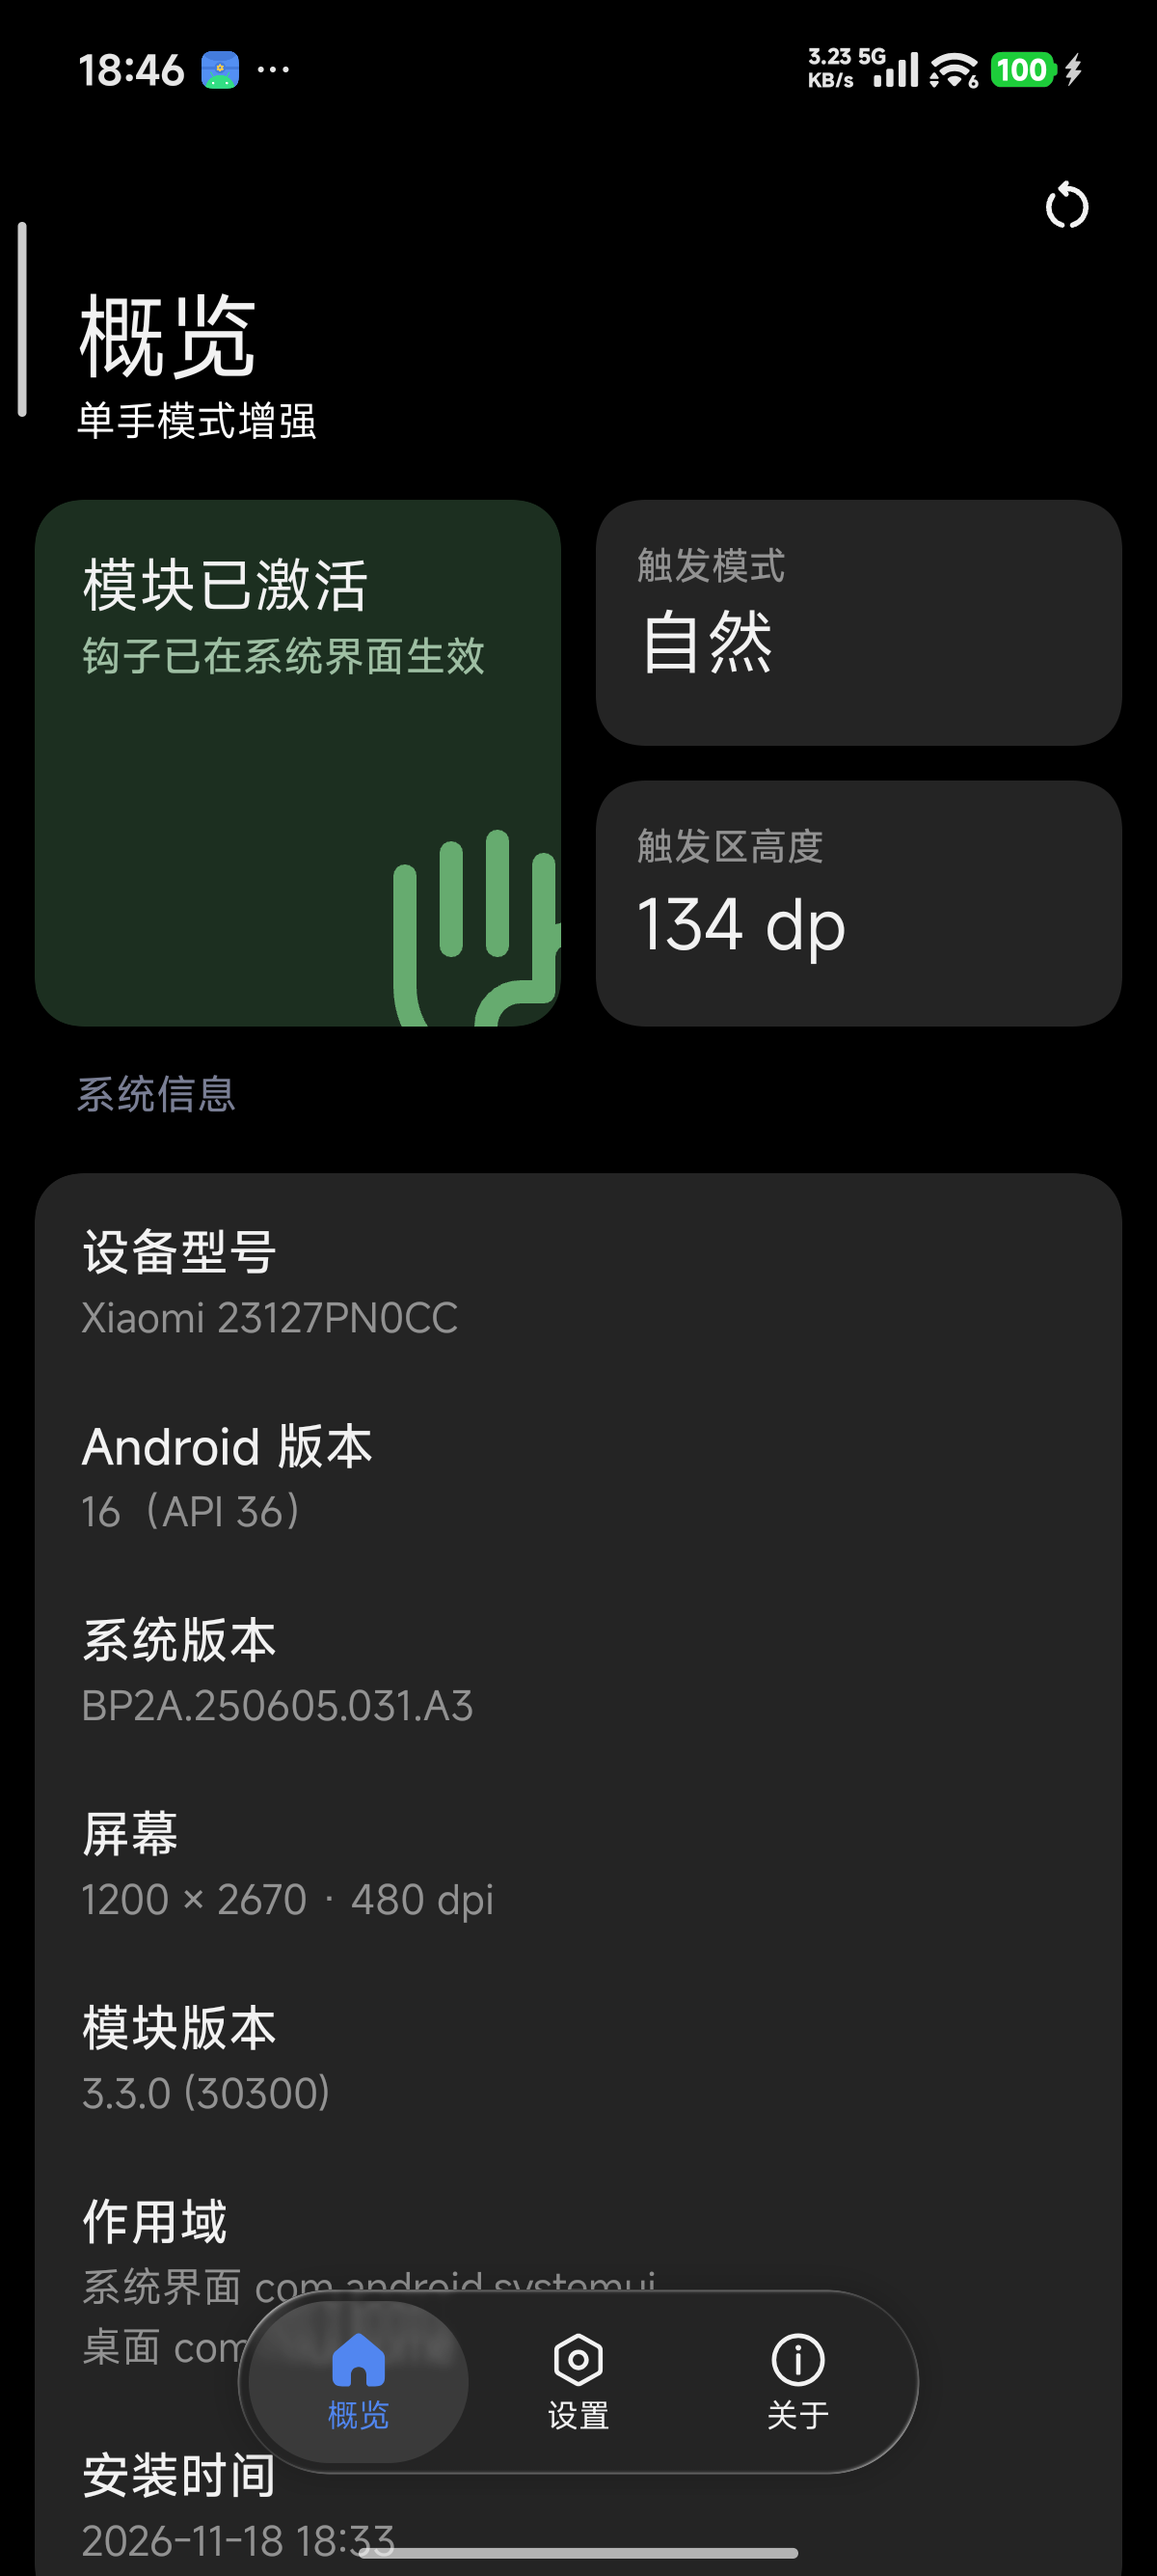
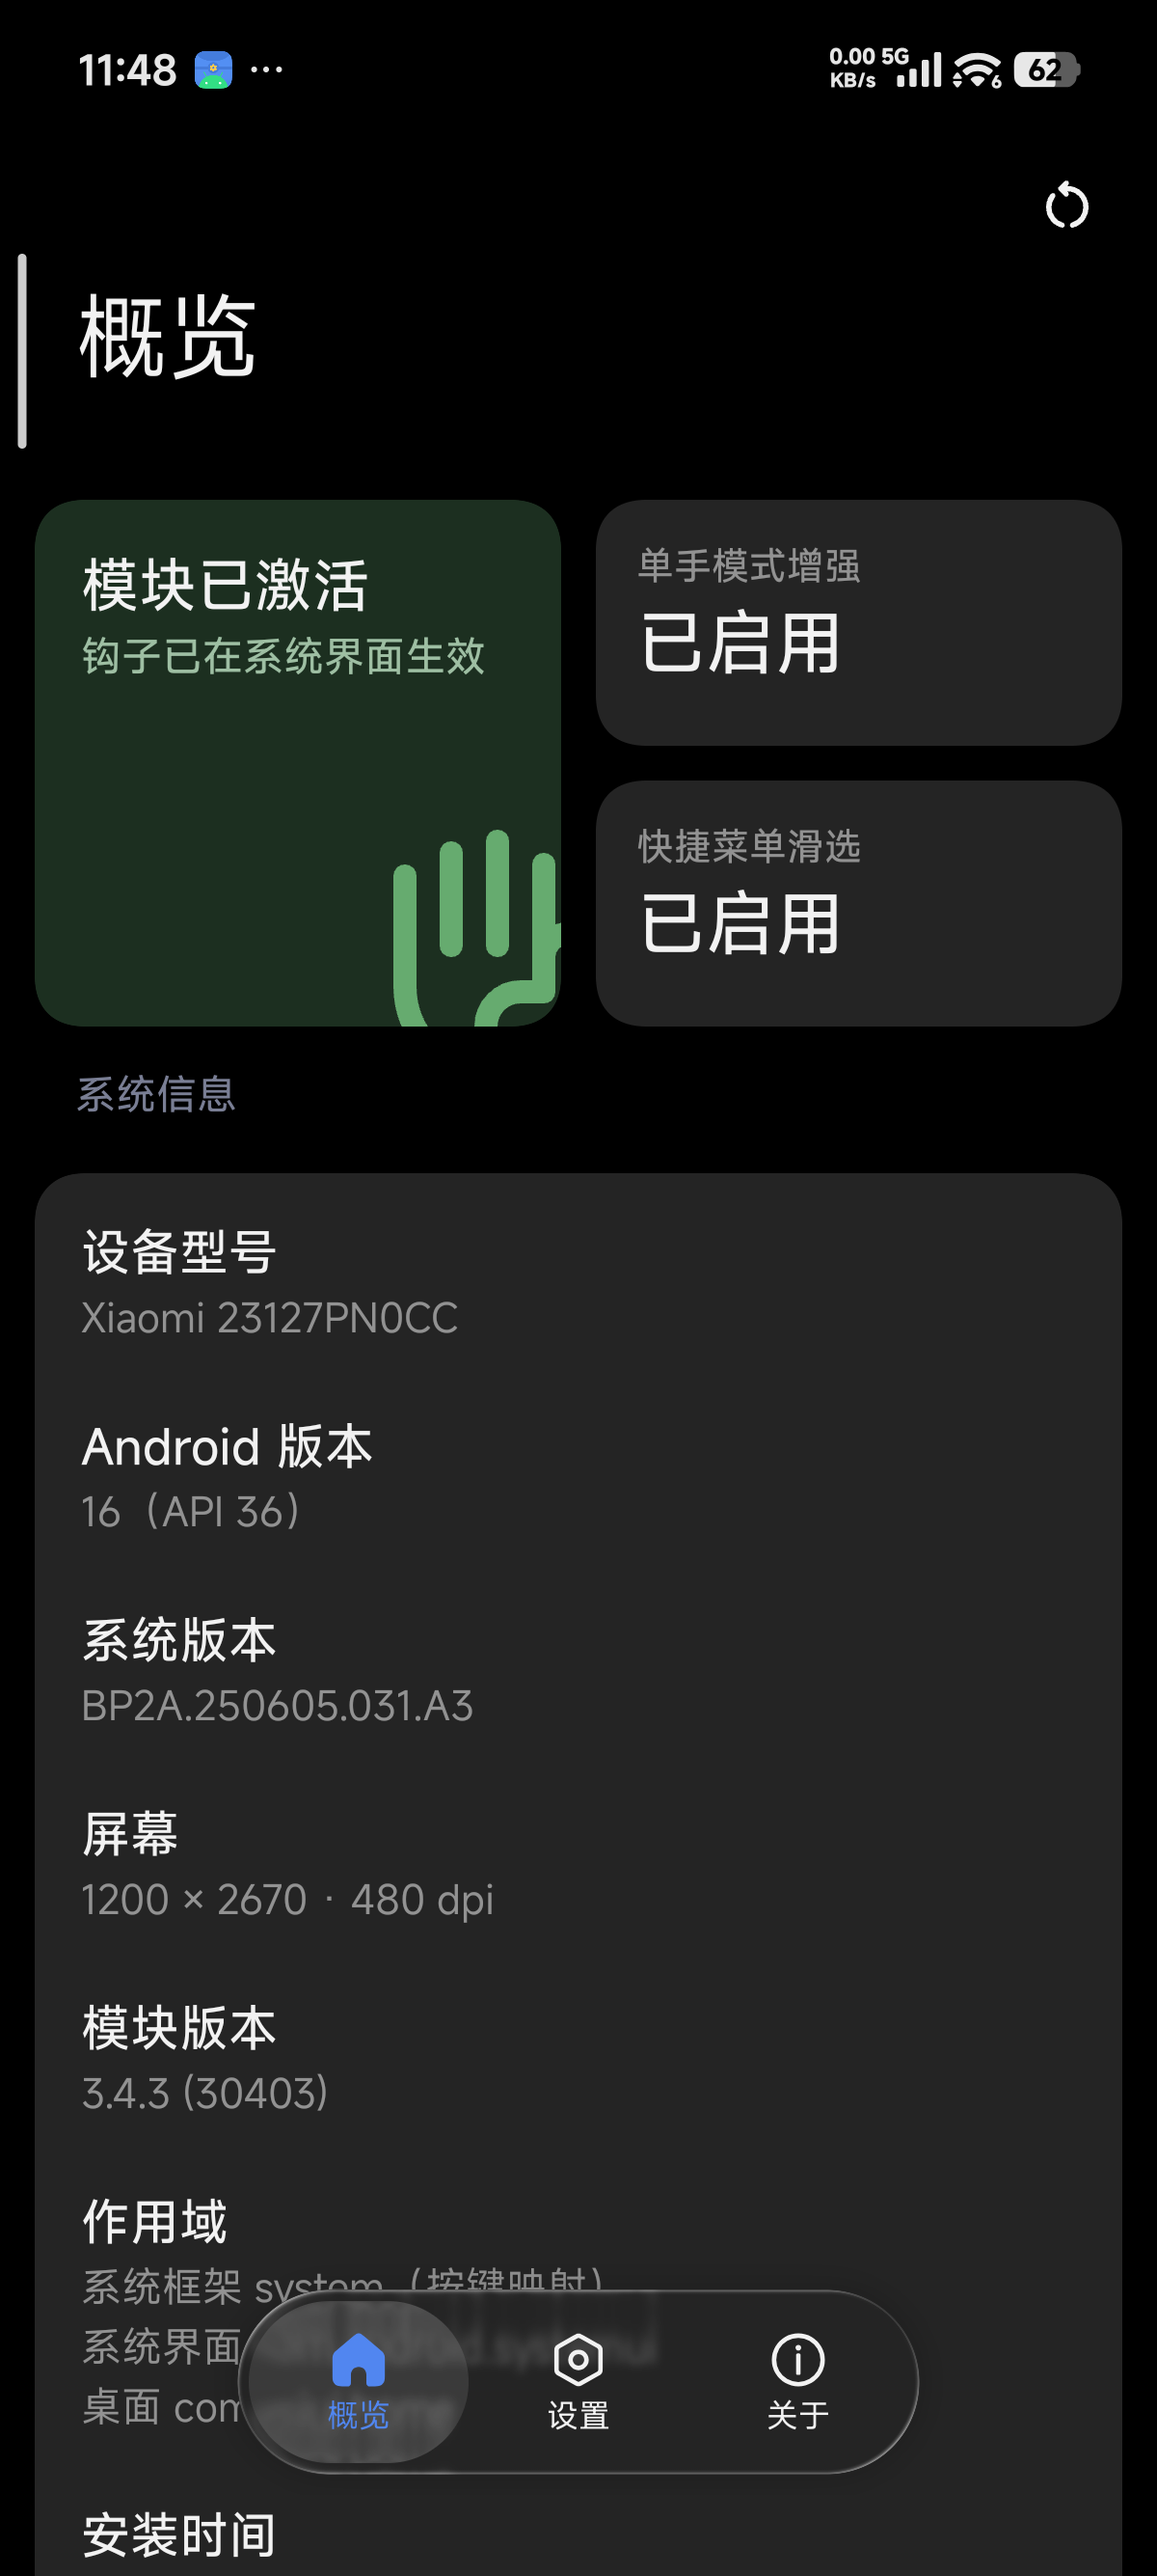
Release 3.4.3: 修复控制中心右滑误退出，刷新真机截图
- shadeGuard 增加方向判定：区内起手的横向滑动不再拦 expandToNotifications
- 版本 3.4.3 / versionCode 30403
- CHANGELOG 与 CI release body 同步
- 6 张 README 截图替换为 3.4.3 真机实拍（浅色/深色）

diff --git a/module/src/main/java/io/github/zpan2327/hyperhand/HyperHand.java b/module/src/main/java/io/github/zpan2327/hyperhand/HyperHand.java
@@ -133,6 +133,11 @@ public class HyperHand extends XposedModule {
     private static boolean sTracking;
     private static boolean sTriggered;
     private static long sDownTime;
+    /** 本次触发区手势的 DOWN 坐标，供 shadeGuard 区分"下拉"与"横向切换"。 */
+    private static float sDownX;
+    private static float sDownY;
+    /** shadeGuard 额外放行判定：向下位移要超过这个像素数才认为是在下拉。 */
+    private static final float SHADE_GUARD_MIN_DY = 12f;
     private static long sLastTriggerAt;
     /** 最近一次 StatusBarState 切换的时刻（毫秒时间戳，0 = 从未），调试用。 */
     static volatile long sLastSetStateAt;
@@ -687,10 +692,32 @@ public class HyperHand extends XposedModule {
      */
     private static boolean blockShadeByZoneGesture(XposedInterface.Chain chain, String tag) {
         if (!isZoneGesture()) return false;
+
+        // 不能只看"起手落在触发区"就拦。通知/控制中心里的左右切换手势，手指常常
+        // 停在屏幕下方（zoneTop 之下），起手同样落在触发区；但它根本不是下拉，
+        // 拦掉 expandToNotifications 会让切换动画卡在 pending layout timeout，
+        // 最后控制中心被 switchHide 直接收起 —— 表现就是"右滑没切到通知中心，
+        // 反而整个退出"。真机 11:23:51 的日志抓到了这条链路：
+        //   DOWN zone x=957 y=2374 → blocked shade expand → pending layout timeout
+        //   → switchHide → COLLAPSED。
+        //
+        // 所以这里额外要求"这确实是一次向下拖"：要么单手模式已经触发（触发后
+        // 手指继续下拉，正是本拦截要防的场景），要么当前位移是明显向下且向下
+        // 分量压过横向分量。纯横向 / 抬手方向的手势一律放行给系统。
+        if (!sTriggered) {
+            float dy = sRec.lastY() - sDownY;
+            float dx = sRec.lastX() - sDownX;
+            if (dy <= SHADE_GUARD_MIN_DY || dy <= Math.abs(dx)) return false;
+        }
+
         // 只拦 void 方法：返回 null 会让非 void 方法的调用方拿到 null
         java.lang.reflect.Executable e = chain.getExecutable();
         if (e instanceof Method && ((Method) e).getReturnType() != void.class) return false;
-        if (sDebug) log("blocked shade expand (" + tag + ", zone gesture)");
+        if (sDebug) {
+            log(String.format(Locale.US,
+                    "blocked shade expand (%s, zone gesture dy=%.0f dx=%.0f triggered=%b)",
+                    tag, sRec.lastY() - sDownY, sRec.lastX() - sDownX, sTriggered));
+        }
         return true;
     }
 
@@ -758,6 +785,8 @@ public class HyperHand extends XposedModule {
                 if (isKeyguardLocked(ctx)) return;
                 sTracking = true;
                 sDownTime = now;
+                sDownX = x;
+                sDownY = y;
                 sRec.begin(now, x, y);
                 if (c.debug) {
                     log(String.format(Locale.US, "DOWN zone x=%.0f y=%.0f h=%d zonePx=%.0f mode=%d",

diff --git a/CHANGELOG.md b/CHANGELOG.md
@@ -2,6 +2,21 @@
 
 所有值得注意的改动都会记录在这里。格式参考 [Keep a Changelog](https://keepachangelog.com/zh-CN/1.1.0/)，版本号遵循 [语义化版本](https://semver.org/lang/zh-CN/)。
 
+## [3.4.3] - 2026-11-27
+
+> versionCode 30403，可直接覆盖安装 3.4.2（30402）。
+
+### 修复
+- **控制中心右滑误退出**：在控制中心/通知中心里从屏幕下方起手往右滑想切到通知中心时，
+  手指落点常在单手模式触发区内（`zoneTop` 之下）。此前 `shadeGuard` 只凭「起手在区内
+  且 2.5 秒内」就拦掉 `NotificationPanelViewController.expandToNotifications`，
+  MIUI 的切换动画随后卡在 `pending layout timeout`，最终 `switchHide` 把整个面板收起 ——
+  表现就是「右滑没切成通知中心，反而直接退出控制中心」。
+  现在拦截额外要求**确实在向下拖**（累计 `dy > 12px` 且 `dy > |dx|`，或单手模式已触发），
+  纯横向 / 抬手方向的手势放行给系统。真机复现链路与修复后日志均已核对：
+  `blocked shade expand` 0 次，无 `pending layout timeout` / `switchHide`；
+  单手模式本身仍正常触发（`TRIGGER(E)`、conf=1.00）。
+
 ## [3.4.2] - 2026-11-26
 
 > versionCode 30402，可直接覆盖安装 3.4.1（30401）。
